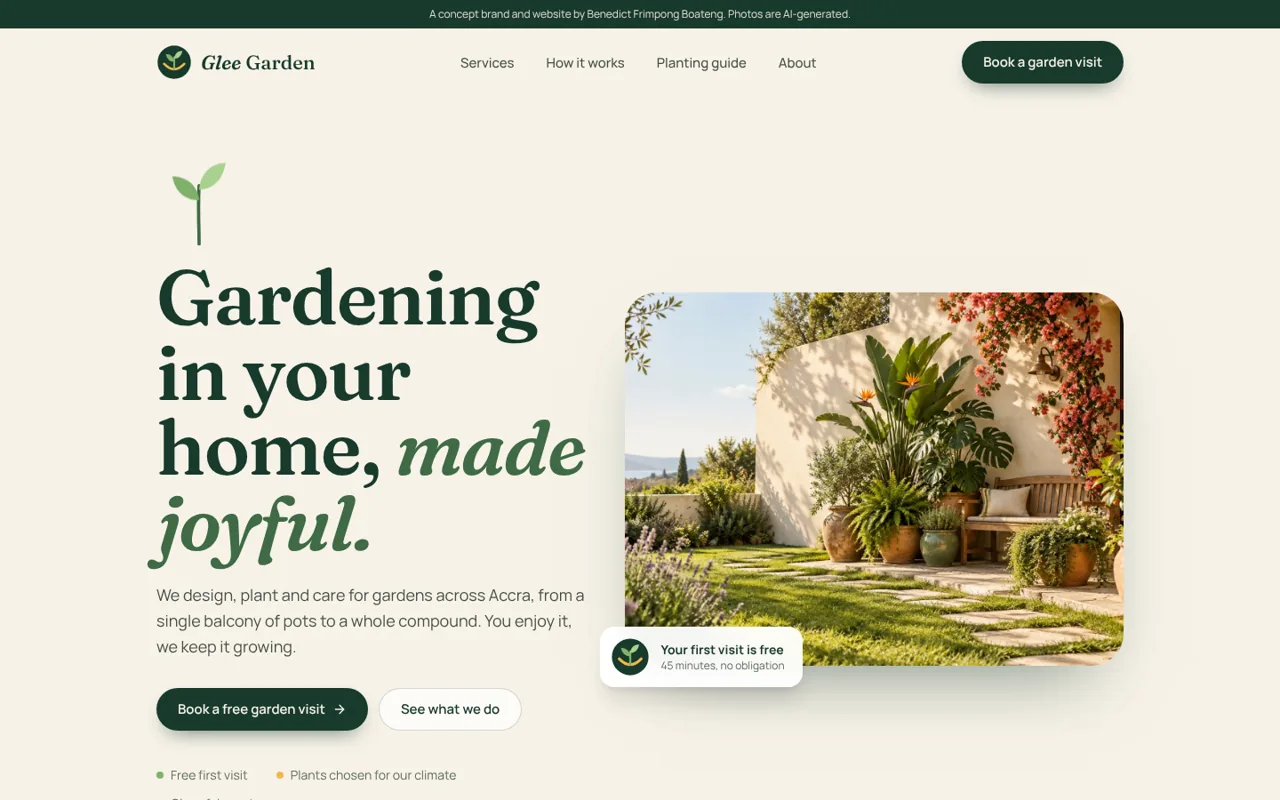
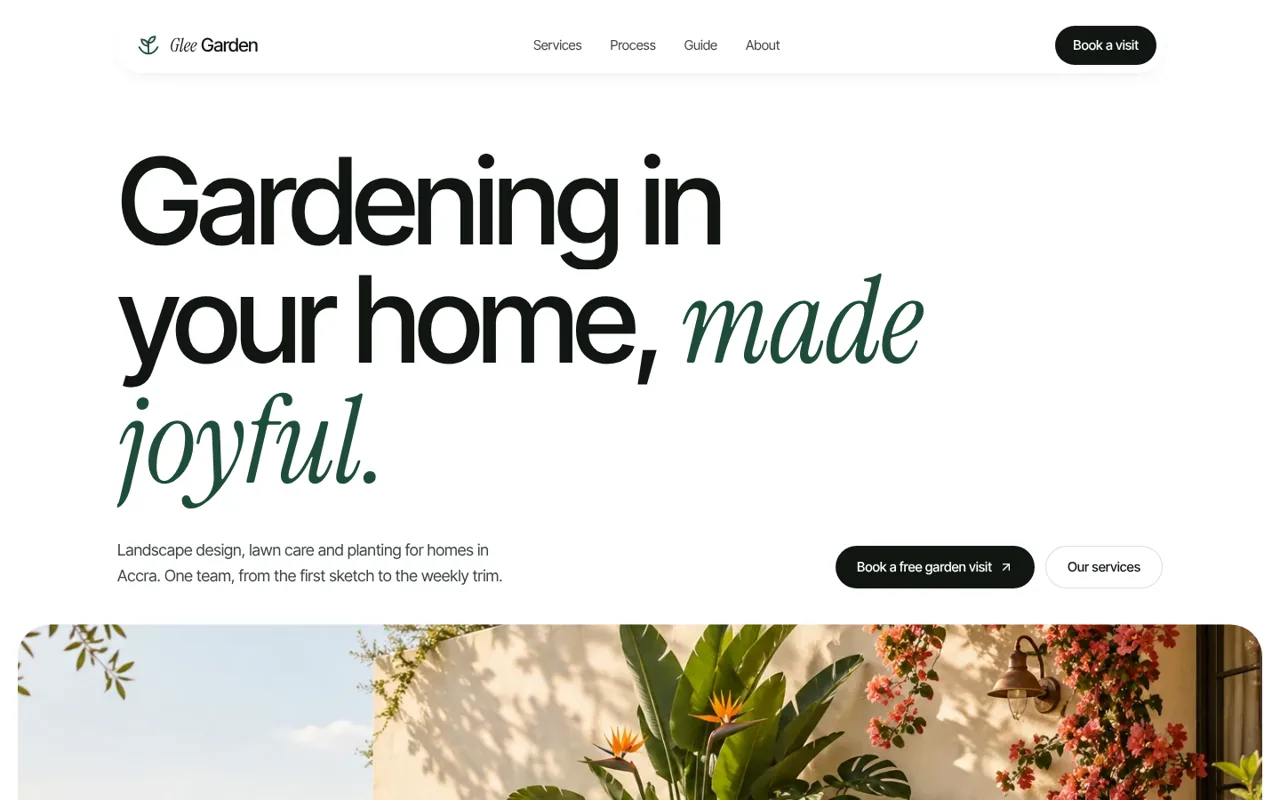
Designs: new Glee Garden screenshot
Claude-Session: https://claude.ai/code/session_01188BJKNaFtNTgr51TGbBFV

diff --git a/lib/site.ts b/lib/site.ts
@@ -251,7 +251,7 @@ export const designs = [
     note: "brand, logo and website",
     summary: "a home gardening brand i took from a rough landing page to a finished site: new logo, palette, a planting guide for southern ghana and a booking flow.",
     image: "/images/glee-garden.webp",
-    imageAlt: "Glee Garden home page: the headline 'Gardening in your home, made joyful' beside a sunlit garden patio",
+    imageAlt: "Glee Garden home page: a floating glass nav and the headline 'Gardening in your home, made joyful' above a sunlit garden patio",
     href: "https://glee-garden.vercel.app",
     linkLabel: "live site",
   },
